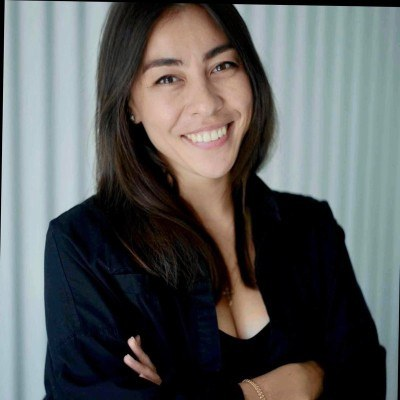
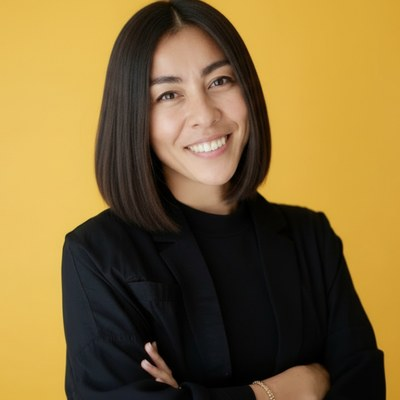
Hello deck: own roadmap slide + QR/splash-card closing slide, Oswald quarters, new team photos
- the host brand gets its own world-map roadmap (with its mascot sticker)
- last slide: brand logo + QR, splash cards of the next 3-5 events (3 = 2+1, 5 = 3+2)
- the quarter line under UPCOMING EVENTS in Oswald
- new photos for Aleksandra and Anna

diff --git a/2026-london-q4/_templates/hello.html b/2026-london-q4/_templates/hello.html
@@ -112,7 +112,7 @@
     .s-tour .logo { position: absolute; left: 70px; top: 60px; width: 320px; height: 260px; object-position: left center; }
     .s-tour .head { position: absolute; left: 400px; right: 70px; top: 80px; text-align: center; }
     .s-tour .head .glow { font-size: 84px; }
-    .s-tour .head .span { font-family: 'Orbitron', sans-serif; font-weight: 600; font-size: 56px; margin-top: 18px; letter-spacing: .06em; }
+    .s-tour .head .span { font-family: 'Oswald', sans-serif; font-weight: 600; font-size: 60px; margin-top: 14px; letter-spacing: .02em; }
     .s-tour .map { position: absolute; background: var(--accent); opacity: .42; -webkit-mask-size: 100% 100%; mask-size: 100% 100%; }
     .s-tour .arcs { position: absolute; inset: 0; width: 1920px; height: 1080px; }
     .s-tour .arcs path { fill: none; stroke: var(--glow); stroke-width: 3.5; filter: drop-shadow(0 0 8px var(--accent)); opacity: .9; }
@@ -134,25 +134,19 @@
     .s-tour .mascot { position: absolute; right: 40px; bottom: 20px; height: 330px; }
     .s-tour .home-qr { position: absolute; left: 70px; bottom: 60px; width: 190px; }
 
-    /* own brand: sticker + logo + upcoming events */
-    .s-own { flex-direction: row; justify-content: center; gap: 110px; padding: 0 90px; }
-    .s-own .sticker { height: 920px; width: auto; max-width: 820px; object-fit: contain; flex: none; }
-    .own-right { display: flex; flex-direction: column; align-items: flex-start; }
-    .own-right .logo { width: 300px; height: 230px; object-position: left center; }
-    .own-right .glow { font-size: 64px; margin: 40px 0 26px; }
-    .own-list { list-style: none; margin: 0; padding: 0; }
-    .own-list li { display: flex; align-items: baseline; gap: 34px; padding: 10px 0; position: relative; }
-    .own-list b { font-family: 'Oswald', sans-serif; font-weight: 600; font-size: 84px; text-transform: uppercase; line-height: 1; }
-    .own-list em { font-style: normal; font-weight: 500; font-size: 52px; color: var(--accent); text-shadow: 0 0 14px var(--accent); }
-    .own-list li.tbc b, .own-list li.more b { color: #b4b4bc; }
-    .own-list li.tbc em, .own-list li.more em { color: #9a9aa3; text-shadow: none; }
-    .own-list li.more b, .own-list li.more em { font-size: 44px; }
-    .own-list.long b { font-size: 66px; }
-    .own-list.long em { font-size: 42px; }
-    .own-list.long li { padding: 6px 0; }
-    .own-list li.here b { text-shadow: 0 0 18px var(--glow); }
-    .own-list li.here::before { content: ''; position: absolute; left: -48px; top: 50%; width: 22px; height: 22px; margin-top: -11px;
-                                border-radius: 50%; background: var(--accent); box-shadow: 0 0 20px var(--accent); }
+    /* last: QR + splash cards (2:1 images) */
+    .s-cards { flex-direction: row; justify-content: center; align-items: center; gap: 80px; padding: 0 70px; }
+    .cards-side { display: flex; flex-direction: column; align-items: center; gap: 50px; flex: none; }
+    .cards-side .logo { width: 300px; height: 300px; }
+    .cards-side .qr-box { width: 360px; }
+    .splash { display: flex; flex-wrap: wrap; justify-content: center; gap: 34px; flex: none; }   /* 3 = 2 + 1, 5 = 3 + 2, centred */
+    .splash .card { flex: none; width: 600px; }
+    .splash.n1 { width: 1100px; } .splash.n1 .card { width: 1100px; }
+    .splash.n2, .splash.n3, .splash.n4 { width: 1234px; }
+    .splash.n5 { width: 1360px; } .splash.n5 .card { width: 430px; }
+    .splash .card { border-radius: 18px; overflow: hidden; aspect-ratio: 2 / 1; box-shadow: 0 18px 50px rgba(0,0,0,.55); }
+    .splash .card img { width: 100%; height: 100%; object-fit: cover; display: block; }
+    .splash .card.here { outline: 6px solid #fff; outline-offset: -6px; }
 
     /* controls */
     .ui { position: fixed; z-index: 10; transition: opacity .3s; font-family: system-ui, -apple-system, sans-serif; }
@@ -245,7 +239,7 @@
   </section>
   {% endif %}
 
-  {# the sister brands' upcoming events, in their own colours #}
+  {# the roadmaps: the sister brands' in their own colours, then this brand's (hello.py appends it last) #}
   {% for b in deck.tours %}
   {%- set bt = b.theme -%}
   {%- set n = b.events|length -%}
@@ -272,19 +266,18 @@
   </section>
   {% endfor %}
 
-  {# this brand: the mascot sticker, the logo and its upcoming events, big #}
-  <section class="slide dark s-own">
-    {% if deck.brand.sticker_src %}<img class="sticker" src="{{ deck.brand.sticker_src }}" alt="" loading="eager">{% endif %}
-    <div class="own-right">
+  {# last: this brand's QR and the splash cards of its next 3-5 events (the home page cards, photo_url) #}
+  <section class="slide dark s-cards">
+    <div class="cards-side">
       {% if deck.brand.logo_src %}<img class="logo" src="{{ deck.brand.logo_src }}" alt="{{ brand_name }}" loading="eager">{% endif %}
-      {% if deck.own_events %}
-      <h2 class="glow">Upcoming events</h2>
-      <ul class="own-list{% if deck.own_events|length > 4 %} long{% endif %}">
-        {% for e in deck.own_events %}<li class="{{ 'here' if e.folder == deck.slug }}{{ ' tbc' if e.tentative }}"><b>{{ e.city|e }}</b><em>{{ e.date }}</em></li>{% endfor %}
-        <li class="more"><b>Many more</b><em>to be announced soon!</em></li>
-      </ul>
-      {% endif %}
+      <div class="qr-box">{{ deck.home_qr }}</div>
     </div>
+    {% if deck.own_cards %}
+    {%- set nc = deck.own_cards|length -%}
+    <div class="splash n{{ nc }}">
+      {% for e in deck.own_cards %}<div class="card{% if e.folder == deck.slug %} here{% endif %}"><img src="{{ e.card }}" alt="{{ brand_name }} {{ e.city|e }} {{ e.date }}" loading="eager"></div>{% endfor %}
+    </div>
+    {% endif %}
   </section>
 </div>
 

diff --git a/_event_template/_templates/hello.html b/_event_template/_templates/hello.html
@@ -112,7 +112,7 @@
     .s-tour .logo { position: absolute; left: 70px; top: 60px; width: 320px; height: 260px; object-position: left center; }
     .s-tour .head { position: absolute; left: 400px; right: 70px; top: 80px; text-align: center; }
     .s-tour .head .glow { font-size: 84px; }
-    .s-tour .head .span { font-family: 'Orbitron', sans-serif; font-weight: 600; font-size: 56px; margin-top: 18px; letter-spacing: .06em; }
+    .s-tour .head .span { font-family: 'Oswald', sans-serif; font-weight: 600; font-size: 60px; margin-top: 14px; letter-spacing: .02em; }
     .s-tour .map { position: absolute; background: var(--accent); opacity: .42; -webkit-mask-size: 100% 100%; mask-size: 100% 100%; }
     .s-tour .arcs { position: absolute; inset: 0; width: 1920px; height: 1080px; }
     .s-tour .arcs path { fill: none; stroke: var(--glow); stroke-width: 3.5; filter: drop-shadow(0 0 8px var(--accent)); opacity: .9; }
@@ -134,25 +134,19 @@
     .s-tour .mascot { position: absolute; right: 40px; bottom: 20px; height: 330px; }
     .s-tour .home-qr { position: absolute; left: 70px; bottom: 60px; width: 190px; }
 
-    /* own brand: sticker + logo + upcoming events */
-    .s-own { flex-direction: row; justify-content: center; gap: 110px; padding: 0 90px; }
-    .s-own .sticker { height: 920px; width: auto; max-width: 820px; object-fit: contain; flex: none; }
-    .own-right { display: flex; flex-direction: column; align-items: flex-start; }
-    .own-right .logo { width: 300px; height: 230px; object-position: left center; }
-    .own-right .glow { font-size: 64px; margin: 40px 0 26px; }
-    .own-list { list-style: none; margin: 0; padding: 0; }
-    .own-list li { display: flex; align-items: baseline; gap: 34px; padding: 10px 0; position: relative; }
-    .own-list b { font-family: 'Oswald', sans-serif; font-weight: 600; font-size: 84px; text-transform: uppercase; line-height: 1; }
-    .own-list em { font-style: normal; font-weight: 500; font-size: 52px; color: var(--accent); text-shadow: 0 0 14px var(--accent); }
-    .own-list li.tbc b, .own-list li.more b { color: #b4b4bc; }
-    .own-list li.tbc em, .own-list li.more em { color: #9a9aa3; text-shadow: none; }
-    .own-list li.more b, .own-list li.more em { font-size: 44px; }
-    .own-list.long b { font-size: 66px; }
-    .own-list.long em { font-size: 42px; }
-    .own-list.long li { padding: 6px 0; }
-    .own-list li.here b { text-shadow: 0 0 18px var(--glow); }
-    .own-list li.here::before { content: ''; position: absolute; left: -48px; top: 50%; width: 22px; height: 22px; margin-top: -11px;
-                                border-radius: 50%; background: var(--accent); box-shadow: 0 0 20px var(--accent); }
+    /* last: QR + splash cards (2:1 images) */
+    .s-cards { flex-direction: row; justify-content: center; align-items: center; gap: 80px; padding: 0 70px; }
+    .cards-side { display: flex; flex-direction: column; align-items: center; gap: 50px; flex: none; }
+    .cards-side .logo { width: 300px; height: 300px; }
+    .cards-side .qr-box { width: 360px; }
+    .splash { display: flex; flex-wrap: wrap; justify-content: center; gap: 34px; flex: none; }   /* 3 = 2 + 1, 5 = 3 + 2, centred */
+    .splash .card { flex: none; width: 600px; }
+    .splash.n1 { width: 1100px; } .splash.n1 .card { width: 1100px; }
+    .splash.n2, .splash.n3, .splash.n4 { width: 1234px; }
+    .splash.n5 { width: 1360px; } .splash.n5 .card { width: 430px; }
+    .splash .card { border-radius: 18px; overflow: hidden; aspect-ratio: 2 / 1; box-shadow: 0 18px 50px rgba(0,0,0,.55); }
+    .splash .card img { width: 100%; height: 100%; object-fit: cover; display: block; }
+    .splash .card.here { outline: 6px solid #fff; outline-offset: -6px; }
 
     /* controls */
     .ui { position: fixed; z-index: 10; transition: opacity .3s; font-family: system-ui, -apple-system, sans-serif; }
@@ -245,7 +239,7 @@
   </section>
   {% endif %}
 
-  {# the sister brands' upcoming events, in their own colours #}
+  {# the roadmaps: the sister brands' in their own colours, then this brand's (hello.py appends it last) #}
   {% for b in deck.tours %}
   {%- set bt = b.theme -%}
   {%- set n = b.events|length -%}
@@ -272,19 +266,18 @@
   </section>
   {% endfor %}
 
-  {# this brand: the mascot sticker, the logo and its upcoming events, big #}
-  <section class="slide dark s-own">
-    {% if deck.brand.sticker_src %}<img class="sticker" src="{{ deck.brand.sticker_src }}" alt="" loading="eager">{% endif %}
-    <div class="own-right">
+  {# last: this brand's QR and the splash cards of its next 3-5 events (the home page cards, photo_url) #}
+  <section class="slide dark s-cards">
+    <div class="cards-side">
       {% if deck.brand.logo_src %}<img class="logo" src="{{ deck.brand.logo_src }}" alt="{{ brand_name }}" loading="eager">{% endif %}
-      {% if deck.own_events %}
-      <h2 class="glow">Upcoming events</h2>
-      <ul class="own-list{% if deck.own_events|length > 4 %} long{% endif %}">
-        {% for e in deck.own_events %}<li class="{{ 'here' if e.folder == deck.slug }}{{ ' tbc' if e.tentative }}"><b>{{ e.city|e }}</b><em>{{ e.date }}</em></li>{% endfor %}
-        <li class="more"><b>Many more</b><em>to be announced soon!</em></li>
-      </ul>
-      {% endif %}
+      <div class="qr-box">{{ deck.home_qr }}</div>
     </div>
+    {% if deck.own_cards %}
+    {%- set nc = deck.own_cards|length -%}
+    <div class="splash n{{ nc }}">
+      {% for e in deck.own_cards %}<div class="card{% if e.folder == deck.slug %} here{% endif %}"><img src="{{ e.card }}" alt="{{ brand_name }} {{ e.city|e }} {{ e.date }}" loading="eager"></div>{% endfor %}
+    </div>
+    {% endif %}
   </section>
 </div>
 

diff --git a/2026-london-q4/_build/hello.py b/2026-london-q4/_build/hello.py
@@ -567,6 +567,7 @@ def _build(context, env, base_folder):
         if logo:
             sponsors.append({'src': '../sponsors/' + logo, 'name': os.path.splitext(logo)[0]})
 
+    own_rows = _with_tentative(me, own, today, 10)
     deck = {
         'key': key, 'brand': me, 'theme': theme, 'city': city or slug, 'slug': slug,
         'event_name': (context.get('onboarding_event') or {}).get('event_name') or '%s %s' % (context.get('brand_name', ''), city),
@@ -580,10 +581,12 @@ def _build(context, env, base_folder):
         'sponsors': sponsors,
         'family': [b for b in brands if b['key'] != key and b.get('family', True)],
         'open_source': [dict(o, logo_src=asset(o.get('logo')), qr=qr_svg(o['url'])) for o in cfg.get('open_source') or [] if o.get('url')],
-        'tours': tours,
-        'own_events': _with_tentative(me, own, today, 6),
+        # the sister brands' roadmaps, then this brand's own (with its mascot sticker); then its splash cards + QR
+        'tours': tours + ([dict(me, events=own_rows, span=_span(own_rows), map=_map_layout(own_rows, cfg.get('cities'), key),
+                                mascot_src=me.get('sticker_src') or me.get('mascot_src'))] if own_rows else []),
+        'own_cards': [r for r in own if r['card']][:5],
         'icons': {k: asset(v) for k, v in (cfg.get('icons') or {}).items()},
-        'map_src': asset('brands/world-dots.png') if tours else '',
+        'map_src': asset('brands/world-dots.png') if tours or own_rows else '',
         'map_box': {'x': MAP_X, 'y': MAP_Y, 'w': MAP['w'], 'h': _map_h()},
     }
     html = env.get_template('hello.html').render(page='hello.html', deck=deck, **context)

diff --git a/_event_template/_build/hello.py b/_event_template/_build/hello.py
@@ -567,6 +567,7 @@ def _build(context, env, base_folder):
         if logo:
             sponsors.append({'src': '../sponsors/' + logo, 'name': os.path.splitext(logo)[0]})
 
+    own_rows = _with_tentative(me, own, today, 10)
     deck = {
         'key': key, 'brand': me, 'theme': theme, 'city': city or slug, 'slug': slug,
         'event_name': (context.get('onboarding_event') or {}).get('event_name') or '%s %s' % (context.get('brand_name', ''), city),
@@ -580,10 +581,12 @@ def _build(context, env, base_folder):
         'sponsors': sponsors,
         'family': [b for b in brands if b['key'] != key and b.get('family', True)],
         'open_source': [dict(o, logo_src=asset(o.get('logo')), qr=qr_svg(o['url'])) for o in cfg.get('open_source') or [] if o.get('url')],
-        'tours': tours,
-        'own_events': _with_tentative(me, own, today, 6),
+        # the sister brands' roadmaps, then this brand's own (with its mascot sticker); then its splash cards + QR
+        'tours': tours + ([dict(me, events=own_rows, span=_span(own_rows), map=_map_layout(own_rows, cfg.get('cities'), key),
+                                mascot_src=me.get('sticker_src') or me.get('mascot_src'))] if own_rows else []),
+        'own_cards': [r for r in own if r['card']][:5],
         'icons': {k: asset(v) for k, v in (cfg.get('icons') or {}).items()},
-        'map_src': asset('brands/world-dots.png') if tours else '',
+        'map_src': asset('brands/world-dots.png') if tours or own_rows else '',
         'map_box': {'x': MAP_X, 'y': MAP_Y, 'w': MAP['w'], 'h': _map_h()},
     }
     html = env.get_template('hello.html').render(page='hello.html', deck=deck, **context)

diff --git a/README.md b/README.md
@@ -171,7 +171,8 @@ Open it on the presenting laptop, press **Fullscreen** (or `F`), then use a clic
 Slides: Hello <city> (logo, the site's 404 mascot, QR to the event page, WhatsApp + LinkedIn QRs, the city panorama, the
 site's Montserrat/Roboto), Meet our team, Share the love, Sponsors & partners (`sponsors:` in metadata.yml, in that order,
 a pill sized to its logos), Other brands (Conf42 last), Open source (cfp.ninja, Reliaburger), each sister brand's upcoming
-events on a dotted world map in its own colours (not PEC: `tour: false`), then this brand's mascot sticker + logo + its upcoming events, big.
+events on a dotted world map in its own colours (not PEC: `tour: false`), then this brand's own roadmap
+(with its mascot sticker), and last its QR code with the splash cards (`photo_url`) of its next 3-5 events.
 
 - Built by `_event_template/_build/hello.py` + `_templates/hello.html` (identical in sreday, llmday, platformday, PEC).
   The QR codes are inline SVG made at build time; nothing per event to type.
